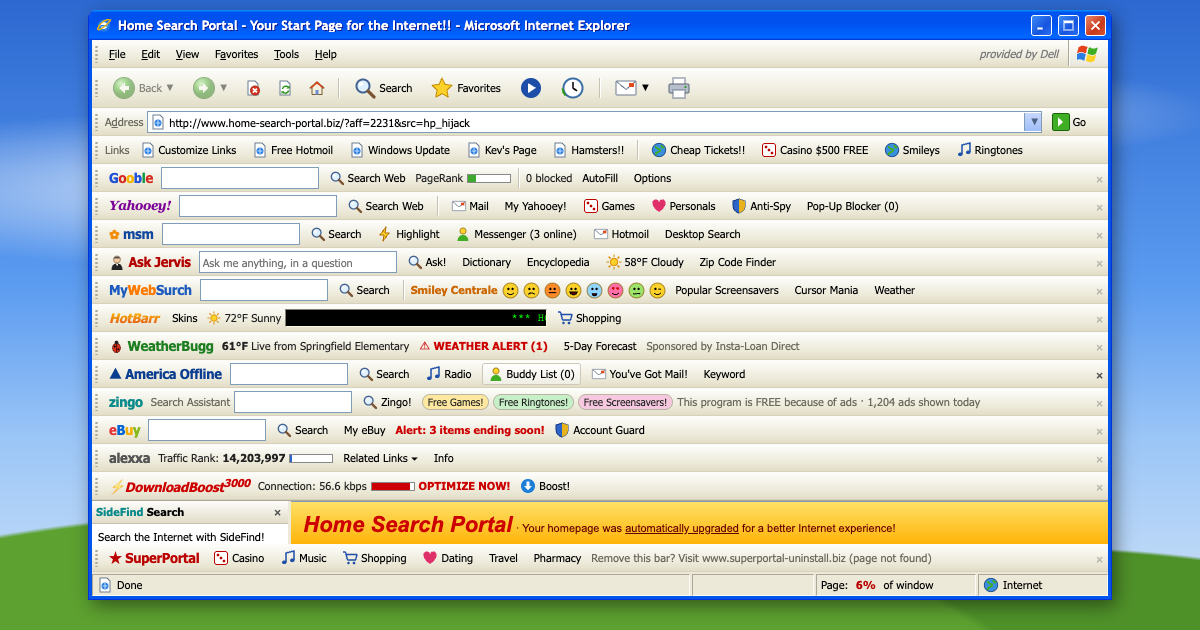
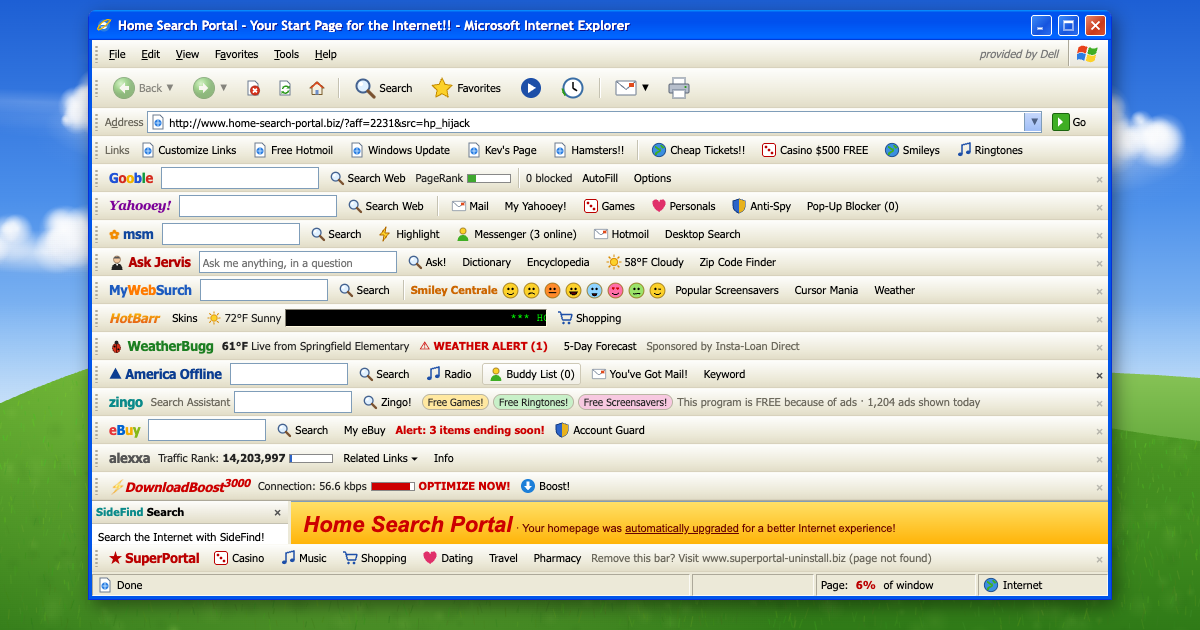
Paint an XP Bliss-style wallpaper on a canvas: azure sky, cumulus, one rolling green hill

diff --git a/src/components/Wallpaper.svelte b/src/components/Wallpaper.svelte
@@ -1,0 +1,140 @@
+<script>
+  // The desktop: a hand-painted (well, code-painted) take on XP's Bliss.
+  // Azure sky, soft cumulus, one rolling green hill. Seeded, so it looks the
+  // same every time, and redrawn to fit the screen.
+  import { onMount } from "svelte";
+
+  let canvas = $state();
+
+  // Small seeded random, so the clouds and grass don't move between visits.
+  function rng(seed) {
+    return () => {
+      seed |= 0; seed = (seed + 0x6d2b79f5) | 0;
+      let t = Math.imul(seed ^ (seed >>> 15), 1 | seed);
+      t = (t + Math.imul(t ^ (t >>> 7), 61 | t)) ^ t;
+      return ((t ^ (t >>> 14)) >>> 0) / 4294967296;
+    };
+  }
+
+  function paint() {
+    const dpr = Math.min(2, devicePixelRatio || 1);
+    const w = innerWidth, h = innerHeight;
+    canvas.width = Math.round(w * dpr); canvas.height = Math.round(h * dpr);
+    const g = canvas.getContext("2d");
+    g.setTransform(dpr, 0, 0, dpr, 0, 0);
+    const r = rng(2005);
+    const s = Math.max(w, h * 1.6) / 1600; // scale detail with the screen
+
+    // Sky: deep azure overhead, paling toward the horizon.
+    const sky = g.createLinearGradient(0, 0, 0, h * 0.7);
+    sky.addColorStop(0, "#1d5fd4");
+    sky.addColorStop(0.45, "#4b8fea");
+    sky.addColorStop(0.8, "#8fc0f4");
+    sky.addColorStop(1, "#c6e0f8");
+    g.fillStyle = sky;
+    g.fillRect(0, 0, w, h);
+
+    // Clouds: clusters of soft puffs, lit from above, shaded underneath.
+    function puff(x, y, rad, color) {
+      const gr = g.createRadialGradient(x, y, 0, x, y, rad);
+      gr.addColorStop(0, color);
+      gr.addColorStop(1, color.replace(/[\d.]+\)$/, "0)"));
+      g.fillStyle = gr;
+      g.beginPath(); g.arc(x, y, rad, 0, Math.PI * 2); g.fill();
+    }
+    // An ellipse of soft light, for bodies and wisps.
+    function smear(x, y, rx, ry, color, rot = 0) {
+      g.save(); g.translate(x, y); g.rotate(rot); g.scale(1, ry / rx);
+      puff(0, 0, rx, color);
+      g.restore();
+    }
+    // Cumulus: a flat-bottomed body, billows piled on top, a shaded underside.
+    function cloud(cx, cy, width, height, n) {
+      smear(cx, cy + height * 0.12, width * 0.55, height * 0.42, "rgba(160,185,220,0.28)");
+      smear(cx, cy, width * 0.52, height * 0.42, "rgba(255,255,255,0.7)");
+      for (let i = 0; i < n; i++) {
+        const t = r() * 2 - 1;                                  // across the cloud
+        const top = Math.sqrt(1 - t * t);                       // taller in the middle
+        const x = cx + t * width * 0.46;
+        const y = cy - r() * height * 0.55 * top;
+        const rad = (0.35 + 0.65 * top) * (18 + r() * 34) * s * (width / (400 * s)) ** 0.5;
+        puff(x, y + rad * 0.3, rad * 1.05, "rgba(170,190,225,0.18)");
+        puff(x, y, rad, "rgba(255,255,255,0.72)");
+        puff(x - rad * 0.25, y - rad * 0.3, rad * 0.6, "rgba(255,255,255,0.55)");
+      }
+    }
+    // High, thin streaks.
+    for (let i = 0; i < 6; i++) smear(r() * w, h * (0.05 + r() * 0.22), (120 + r() * 200) * s, (16 + r() * 16) * s, `rgba(255,255,255,${0.1 + r() * 0.12})`, (r() - 0.5) * 0.12);
+    cloud(w * 0.18, h * 0.2, 440 * s, 150 * s, 60);
+    cloud(w * 0.5, h * 0.11, 280 * s, 80 * s, 30);
+    cloud(w * 0.84, h * 0.24, 480 * s, 170 * s, 64);
+    cloud(w * 0.04, h * 0.4, 280 * s, 70 * s, 24);
+    cloud(w * 0.64, h * 0.43, 420 * s, 70 * s, 34);
+    // A thin haze band above the horizon.
+    const haze = g.createLinearGradient(0, h * 0.48, 0, h * 0.66);
+    haze.addColorStop(0, "rgba(220,235,250,0)");
+    haze.addColorStop(1, "rgba(220,235,250,0.55)");
+    g.fillStyle = haze;
+    g.fillRect(0, h * 0.48, w, h * 0.2);
+
+    // A far hill on the right, hazier, then the famous one in front.
+    const back = new Path2D();
+    back.moveTo(w * 0.45, h);
+    back.lineTo(w * 0.45, h * 0.7);
+    back.bezierCurveTo(w * 0.62, h * 0.6, w * 0.8, h * 0.57, w, h * 0.6);
+    back.lineTo(w, h); back.closePath();
+    const bg = g.createLinearGradient(0, h * 0.57, 0, h * 0.8);
+    bg.addColorStop(0, "#8cc75a"); bg.addColorStop(1, "#4f9a2c");
+    g.fillStyle = bg; g.fill(back);
+
+    const hill = new Path2D();
+    hill.moveTo(0, h);
+    hill.lineTo(0, h * 0.64);
+    hill.bezierCurveTo(w * 0.14, h * 0.52, w * 0.3, h * 0.47, w * 0.44, h * 0.5);
+    hill.bezierCurveTo(w * 0.62, h * 0.54, w * 0.82, h * 0.66, w, h * 0.7);
+    hill.lineTo(w, h); hill.closePath();
+    const hg = g.createLinearGradient(0, h * 0.47, 0, h);
+    hg.addColorStop(0, "#86c93f");
+    hg.addColorStop(0.25, "#5aa72a");
+    hg.addColorStop(1, "#2f7a17");
+    g.fillStyle = hg; g.fill(hill);
+
+    // Light and shadow across the hill: sun on the crest, dips in the dells.
+    g.save();
+    g.clip(hill);
+    const sun = g.createRadialGradient(w * 0.3, h * 0.5, 0, w * 0.3, h * 0.5, w * 0.45);
+    sun.addColorStop(0, "rgba(220,245,120,0.35)"); sun.addColorStop(1, "rgba(220,245,120,0)");
+    g.fillStyle = sun; g.fillRect(0, 0, w, h);
+    // Broad, shallow dells.
+    for (let i = 0; i < 4; i++) smear(w * (0.15 + r() * 0.75), h * (0.72 + r() * 0.22), (260 + r() * 300) * s, (60 + r() * 50) * s, "rgba(25,80,12,0.16)", (r() - 0.5) * 0.3);
+    // Mottling, so it reads as a field and not a flat fill.
+    for (let i = 0; i < 1400 * (w * h) / (1600 * 1000); i++) {
+      const x = r() * w, y = h * 0.46 + r() * h * 0.56, rad = (5 + r() * 16) * s;
+      puff(x, y, rad, r() < 0.5 ? "rgba(190,235,110,0.07)" : "rgba(20,70,10,0.07)");
+    }
+    // Grass: thousands of short strokes, brighter near the top of the hill.
+    g.lineCap = "round";
+    const blades = Math.round(9000 * (w * h) / (1600 * 1000));
+    for (let i = 0; i < blades; i++) {
+      const x = r() * w, y = h * 0.46 + r() * h * 0.56;
+      if (!g.isPointInPath(hill, x * dpr, y * dpr)) continue;
+      const depth = (y - h * 0.46) / (h * 0.56);
+      const len = (3 + r() * 6) * s * (0.6 + depth);
+      const lean = (r() - 0.5) * 0.7;
+      g.strokeStyle = `hsla(${88 + r() * 22}, ${55 + r() * 20}%, ${48 - depth * 22 + r() * 10}%, 0.45)`;
+      g.lineWidth = (0.8 + r()) * s;
+      g.beginPath(); g.moveTo(x, y); g.lineTo(x + lean * len, y - len); g.stroke();
+    }
+    g.restore();
+  }
+
+  onMount(() => {
+    paint();
+    let t;
+    const onresize = () => { clearTimeout(t); t = setTimeout(paint, 150); };
+    addEventListener("resize", onresize);
+    return () => removeEventListener("resize", onresize);
+  });
+</script>
+
+<canvas class="wallpaper" bind:this={canvas} aria-hidden="true"></canvas>

diff --git a/src/App.svelte b/src/App.svelte
@@ -15,6 +15,7 @@
   import Buddy from "./components/Buddy.svelte";
   import Balloon from "./components/Balloon.svelte";
   import Desktop from "./components/Desktop.svelte";
+  import Wallpaper from "./components/Wallpaper.svelte";
 
   let winEl = $state(), pageEl = $state();
   const collapsed = $derived(ui.ended === "collapse" && adware().length >= ADWARE_TOTAL);
@@ -140,6 +141,7 @@
 
 <svelte:window {onkeydown} {onpointerdown} />
 
+<Wallpaper />
 <Desktop />
 
 <main

diff --git a/src/app.css b/src/app.css
@@ -669,3 +669,6 @@ body.dragging-win iframe { pointer-events: none; }
 .lyrics span { color: #999; transition: color .1s; }
 .lyrics span.sung { color: #000; }
 .lyrics span.now { color: #7b3fb8; font-weight: bold; }
+
+/* The painted wallpaper sits behind everything; the CSS gradient under it is the fallback. */
+.wallpaper { position: fixed; inset: 0; width: 100%; height: 100%; z-index: -1; display: block; pointer-events: none; }
